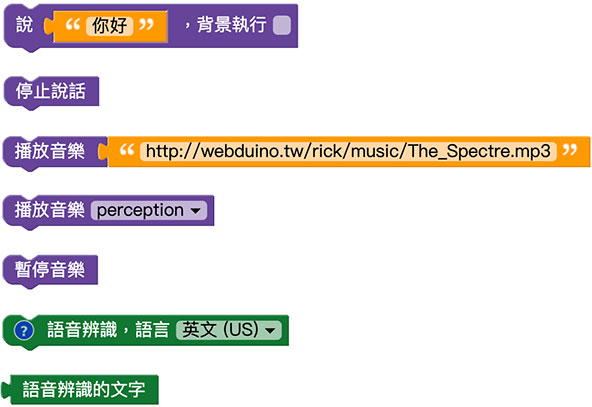
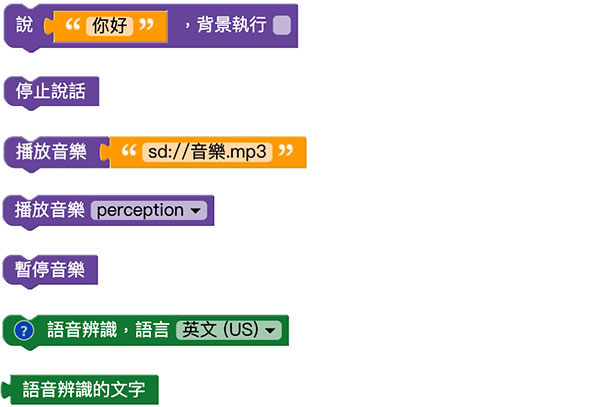
update submodule

Changed region(s): [[0.0, 0.3243, 1.0, 0.4423]]

diff --git a/doc/zh-tw/kebbi/robot/sound.md b/doc/zh-tw/kebbi/robot/sound.md
@@ -4,7 +4,7 @@
 
 ## 聲音積木清單
 
-聲音積木包含了說 ( 凱比機器人講話 )、停止說話、播放 mp3 音樂 ( 網路 mp3 或 SD 卡的 mp3 )、播放內建音樂、暫停音樂以及語音辨識。
+聲音積木包含了說 ( 凱比機器人講話 )、停止說話、播放 mp3 音樂 ( SD 卡的 mp3 )、播放內建音樂、暫停音樂以及語音辨識。
 
 ![凱比物聯網教室 - 聲音](../../../../media/zh-tw/kebbi/robot/sound-01.jpg)
 
@@ -12,7 +12,7 @@
 
 使用「說」的積木，勾選背景執行 ( 如此才不會影響到後續的程式 )，搭配「播放 mp3 音樂」的積木 ( 內建音樂不支援同時說話和音樂 )，部署機器人執行後，就會看見機器人邊講話邊播音樂。
 
-> 如果要使用 SD 卡的音樂，可將音樂放入 SD 卡內，路徑輸入「*sd://音樂.mp3*」
+> 如果要使用 SD 卡的音樂，請先將音樂放入 SD 卡內，路徑輸入「*sd://音樂.mp3*」
 
 ![凱比物聯網教室 - 聲音](../../../../media/zh-tw/kebbi/robot/sound-02.jpg)
 
@@ -27,5 +27,3 @@
 部署機器人執行後，機器人就會開始進行語音辨識，辨識時右上角會出現一個麥克風閃爍的圖示，這時對著機器人講話，辨識成功後，機器人就會講出辨識的語句。
 
 ![凱比物聯網教室 - 聲音](../../../../media/zh-tw/kebbi/robot/sound-04.jpg)
-
-

diff --git a/doc/zh-cn/kebbi/robot/sound.md b/doc/zh-cn/kebbi/robot/sound.md
@@ -4,7 +4,7 @@
 
 ## 声音积木清单
 
-声音积木包含了说 ( 凯比机器人讲话 )、停止说话、播放 mp3 音乐 ( 网路 mp3 或 SD 卡的 mp3 )、播放内建音乐、暂停音乐以及语音辨识。
+声音积木包含了说 ( 凯比机器人讲话 )、停止说话、播放 mp3 音乐 ( SD 卡的 mp3 )、播放内建音乐、暂停音乐以及语音辨识。
 
 ![凯比物联网教室 - 声音](../../../../media/zh-cn/kebbi/robot/sound-01.jpg)
 
@@ -12,7 +12,7 @@
 
 使用「说」的积木，勾选背景执行 ( 如此才不会影响到后续的程式 )，搭配「播放 mp3 音乐」的积木 ( 内建音乐不支援同时说话和音乐 )，部署机器人执行后，就会看见机器人边讲话边播音乐。
 
-> 如果要使用 SD 卡的音乐，可将音乐放入 SD 卡内，路径输入「*sd://音乐.mp3*」
+> 如果要使用 SD 卡的音乐，请先将音乐放入 SD 卡内，路径输入「*sd://音乐.mp3*」
 
 ![凯比物联网教室 - 声音](../../../../media/zh-cn/kebbi/robot/sound-02.jpg)
 

diff --git a/doc/zh-tw/education/extension-full-package/ir.md b/doc/zh-tw/education/extension-full-package/ir.md
@@ -14,7 +14,6 @@
 
 ![紅外線發射＆接收](../../../../media/zh-tw/education/extension-full-package/ir-01.jpg)
 
-
 ## 紅外線接收 接線圖
 
 使用擴充套件包的紅外線接收模組，將 S 訊號腳連接 Web:Bit 擴充板的 1 號腳，VCC 連接 3V3，GND 連接 GND。
